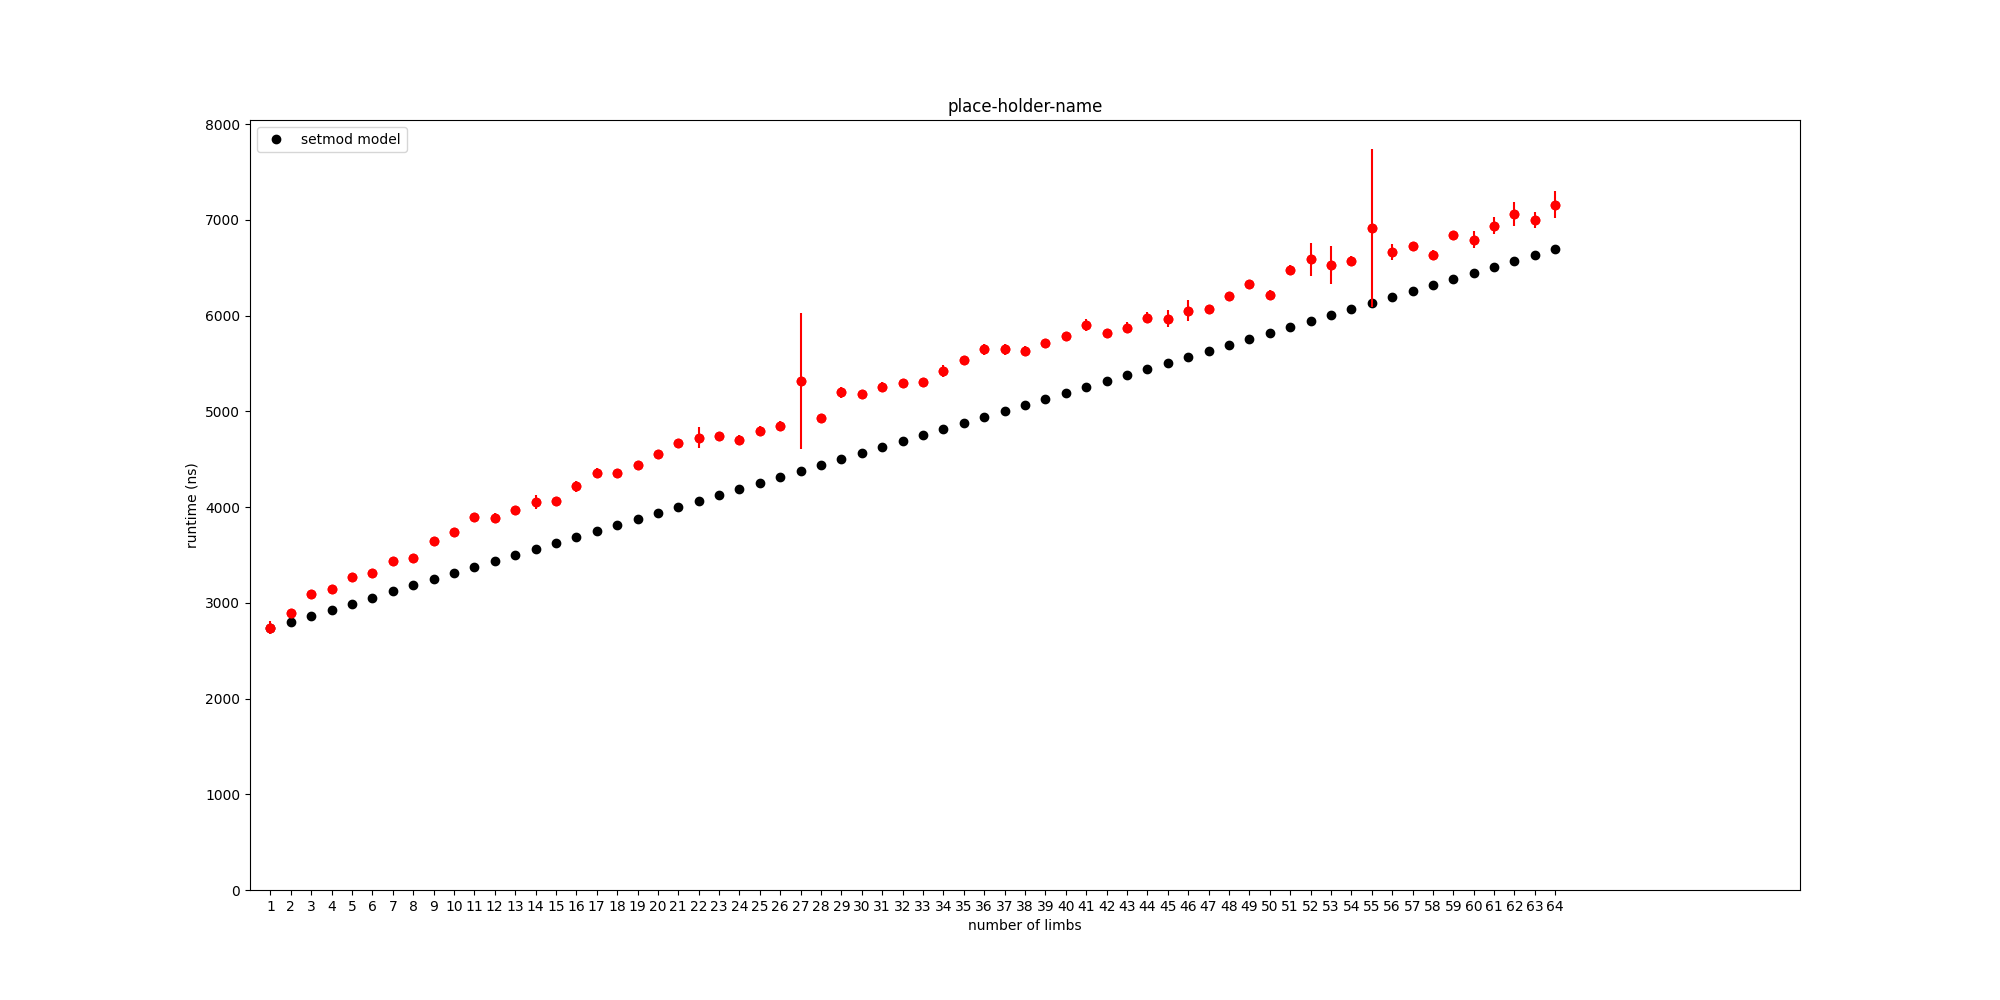
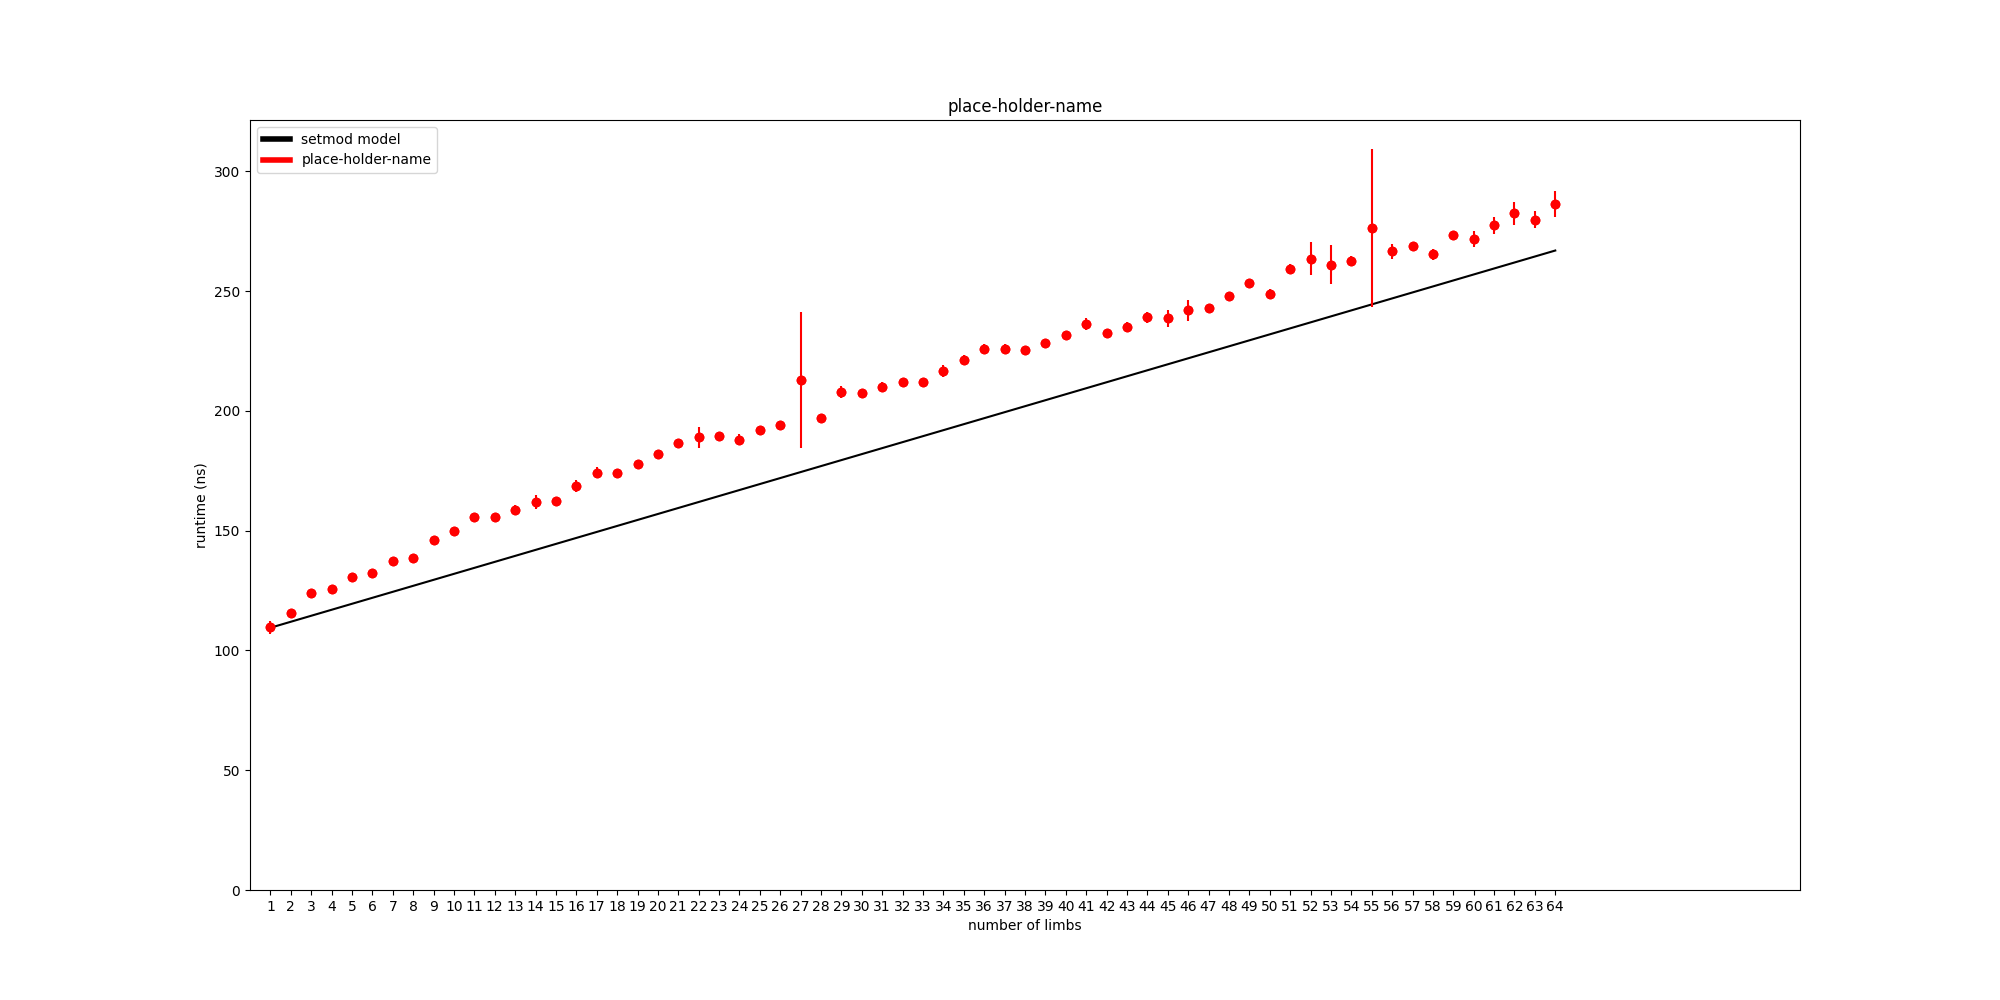
wip

diff --git a/plot.py b/plot.py
@@ -5,11 +5,15 @@
 
 
 from matplotlib import pyplot as plt
+from matplotlib.lines import Line2D
 import matplotlib
 import numpy as np
 import math, sys, re, statistics, os
 
 from matplotlib.pyplot import figure
+
+# 25 ns / gas
+GAS_RATE = 25.0
 
 def group_data(lines: [str]) -> [str]:
     result = {}
@@ -66,8 +70,8 @@ def read_go_arith_benchmarks(file_name):
         for bench_preset in benches_map[bench_op].keys():
             for bench_limbs in benches_map[bench_op][bench_preset].keys():
                 item = benches_map[bench_op][bench_preset][bench_limbs]
-                item['stddev'] = statistics.stdev(item['data'])
-                item['mean'] = statistics.mean(item['data'])
+                item['stddev'] = statistics.stdev(item['data']) / GAS_RATE
+                item['mean'] = statistics.mean(item['data']) / GAS_RATE
                 benches_map[bench_op][bench_preset][bench_limbs] = item # TODO is this necessary in python?
             #print("{},{},{},{},{}".format(bench_preset, bench_op, bench_limbs, item['mean'], item['stddev']))
     return benches_map
@@ -122,14 +126,14 @@ def scatterplot_ns_data(fname: str, name: str, graph_range, annotates: [bool], m
     plt.xlim(0, x_min_all + int(span_x * 1.2))
     plt.xticks(stripped_args[0][1])
 
+    legend_lines = []
+    legend_labels = []
+
     for i, (x_range, x_vals, y_vals, y_errs, color, label, marker) in enumerate(stripped_args):
         assert len(x_vals) == len(y_vals)
 
         plt.xlabel("number of limbs")
         plt.ylabel("runtime (ns)")
-
-        plt.legend(loc="upper left")
-        ax.set(title=label)
         
         if len(y_errs) != 0:
             assert len(y_vals) == len(y_errs)
@@ -148,7 +152,12 @@ def scatterplot_ns_data(fname: str, name: str, graph_range, annotates: [bool], m
                for x, y in zip(x_vals, y_vals):
                    ax.annotate(y, (float(x) + 0.2, float(y)))
            ax.plot(x_vals, y_vals, markers[i], color=color, label=label)
+        
+        legend_lines.append(Line2D([0], [0], color=color, lw=4))
+        legend_labels.append(label)
 
+    ax.legend(legend_lines, legend_labels, loc="upper left")
+    ax.set(title=label)
     plt.savefig(fname)
 
 def fit_quadratic(input_range, dataset, intercept_min):
@@ -308,10 +317,10 @@ def format_model_eqn_for_graphing(model: [int], xs: [int]):
 # mulmont_eqn_hi = [0.01, 246.97, 17683.52]
 # addmod_eqn = [4.61, 3.6100000000000003]
 
-setmod_eqn = [63.0, 2680.0]
-mulmont_eqn_low = [2.3, -0.70, 6.0]
-mulmont_eqn_hi = [0.01, 247.0, -6700.0]
-addmod_eqn = [5.5, 3.0]
+setmod_eqn = [2.5, 107.0]
+mulmont_eqn_low = [0.092, -0.01, 0.24]
+mulmont_eqn_hi = [0.0004, 9.88, -268.0]
+addmod_eqn = [0.22, 0.144]
 
 fast_mulmont_cutoff = 49
 mulmont_benches = go_arith_benchmarks['mulmont']
@@ -351,9 +360,9 @@ benches_xs = list(sorted(set(list(mulmont_evmmax_low.keys()) + list(mulmont_evmm
 mulmont_model = prep_models_for_graphing([(mulmont_eqn_low, fast_mulmont_cutoff), (mulmont_eqn_hi, 100000)], 'mulmont model', benches_xs)
 
 mulmont_evmmax = stitch_data(go_arith_benchmarks['mulmont']['non-unrolled'], go_arith_benchmarks['mulmont']['generic'], fast_mulmont_cutoff)
-scatterplot_ns_data("charts/mulmontmax_all.png", "mulmontmax arithmetic benchmarks with gas model", (1, 100000), [False, False], ["o", "o"], [mulmont_evmmax, mulmont_model])
-scatterplot_ns_data("charts/mulmontmax_cutoff.png", "MULMONTMAX Arithmetic Benchmarks with Gas Model", (1, 64), [False, False], ["o", "-"], [mulmont_evmmax, mulmont_model])
-scatterplot_ns_data("charts/mulmontmax_low.png", "mulmontmax arithmetic benchmarks with gas model", (1, 16), [False, False], ["o", "-"], [mulmont_evmmax, mulmont_model])
+scatterplot_ns_data("charts/mulmontmax_all.png", "mulmontmax arithmetic benchmarks with gas model", (1, 100000), [False, False], ["o", "-"], [mulmont_evmmax, mulmont_model])
+scatterplot_ns_data("charts/mulmontmax_cutoff.png", "MULMONTMAX Arithmetic Benchmarks with Gas Model", (1, 64), [False, False], ["o", "o"], [mulmont_evmmax, mulmont_model])
+scatterplot_ns_data("charts/mulmontmax_low.png", "mulmontmax arithmetic benchmarks with gas model", (1, 16), [False, True], ["o", "o"], [mulmont_evmmax, mulmont_model])
 
 addmod_model = prep_models_for_graphing([(addmod_eqn, 100000)], 'addmod model', benches_xs)
 
@@ -365,18 +374,19 @@ submod_evmmax = stitch_data(go_arith_benchmarks['submod']['generic'], go_arith_b
 # mulmont_eqn_low = 
 # TODO addmod/submod with model on graph
 
-scatterplot_ns_data("charts/addmodx_low.png", "addmodx low limbs", (1, 12), [False, False], ["o", 'o'], [addmod_evmmax, addmod_model])
-scatterplot_ns_data("charts/addmodx_med.png", "addmodx medium limbs", (1, 100), [False, False], ["o", 'o'], [addmod_evmmax, addmod_model])
+scatterplot_ns_data("charts/addmodx_low.png", "addmodx low limbs", (1, 12), [True, False], ["o", 'o'], [addmod_evmmax, addmod_model])
+scatterplot_ns_data("charts/addmodx_med.png", "addmodx medium limbs", (1, 100), [False, False], ["o", '-'], [addmod_evmmax, addmod_model])
 scatterplot_ns_data("charts/addmodx_all.png", "addmodx all limbs", (1, 100000), [False, False], ["o", '-'], [addmod_evmmax, addmod_model])
 
 scatterplot_ns_data("charts/submodx_low.png", "submodx low limbs", (1, 12), [False, False], ["o", 'o'], [submod_evmmax, addmod_model])
-scatterplot_ns_data("charts/submodx_med.png", "submodx medium limbs", (1, 100), [False, False], ["o", 'o'], [submod_evmmax, addmod_model])
+scatterplot_ns_data("charts/submodx_med.png", "submodx medium limbs", (1, 100), [False, False], ["o", '-'], [submod_evmmax, addmod_model])
 scatterplot_ns_data("charts/submodx_all.png", "submodx all limbs", (1, 100000), [False, False], ["o", '-'], [submod_evmmax, addmod_model])
 
 setmod_evmmax = stitch_data(go_arith_benchmarks['setmod']['generic'], go_arith_benchmarks['setmod']['generic'], 100000)
-setmod_eqn = fit_linear((1, 100000), go_arith_benchmarks['setmod']['generic'], True)
+#setmod_eqn = fit_linear((1, 100000), go_arith_benchmarks['setmod']['generic'], True)
 setmod_model = prep_models_for_graphing([(setmod_eqn, 100000)], 'setmod model', benches_xs)
 
+import pdb; pdb.set_trace()
 scatterplot_ns_data("charts/setmodmax_all.png", "SETMODMAX model", (1, 100000), [False, False], ["-", "o"], [setmod_model, setmod_evmmax])
-scatterplot_ns_data("charts/setmodmax_cutoff.png", "SETMODMAX model", (1, 64), [False, False], ["o", "o"], [setmod_model, setmod_evmmax])
-scatterplot_ns_data("charts/setmodmax_low.png", "SETMODMAX model", (1, 16), [False, False], ["o", "o"], [setmod_model, setmod_evmmax])
+scatterplot_ns_data("charts/setmodmax_cutoff.png", "SETMODMAX model", (1, 64), [False, False], ["-", "o"], [setmod_model, setmod_evmmax])
+scatterplot_ns_data("charts/setmodmax_low.png", "SETMODMAX model", (1, 16), [True, False], ["o", "o"], [setmod_model, setmod_evmmax])
